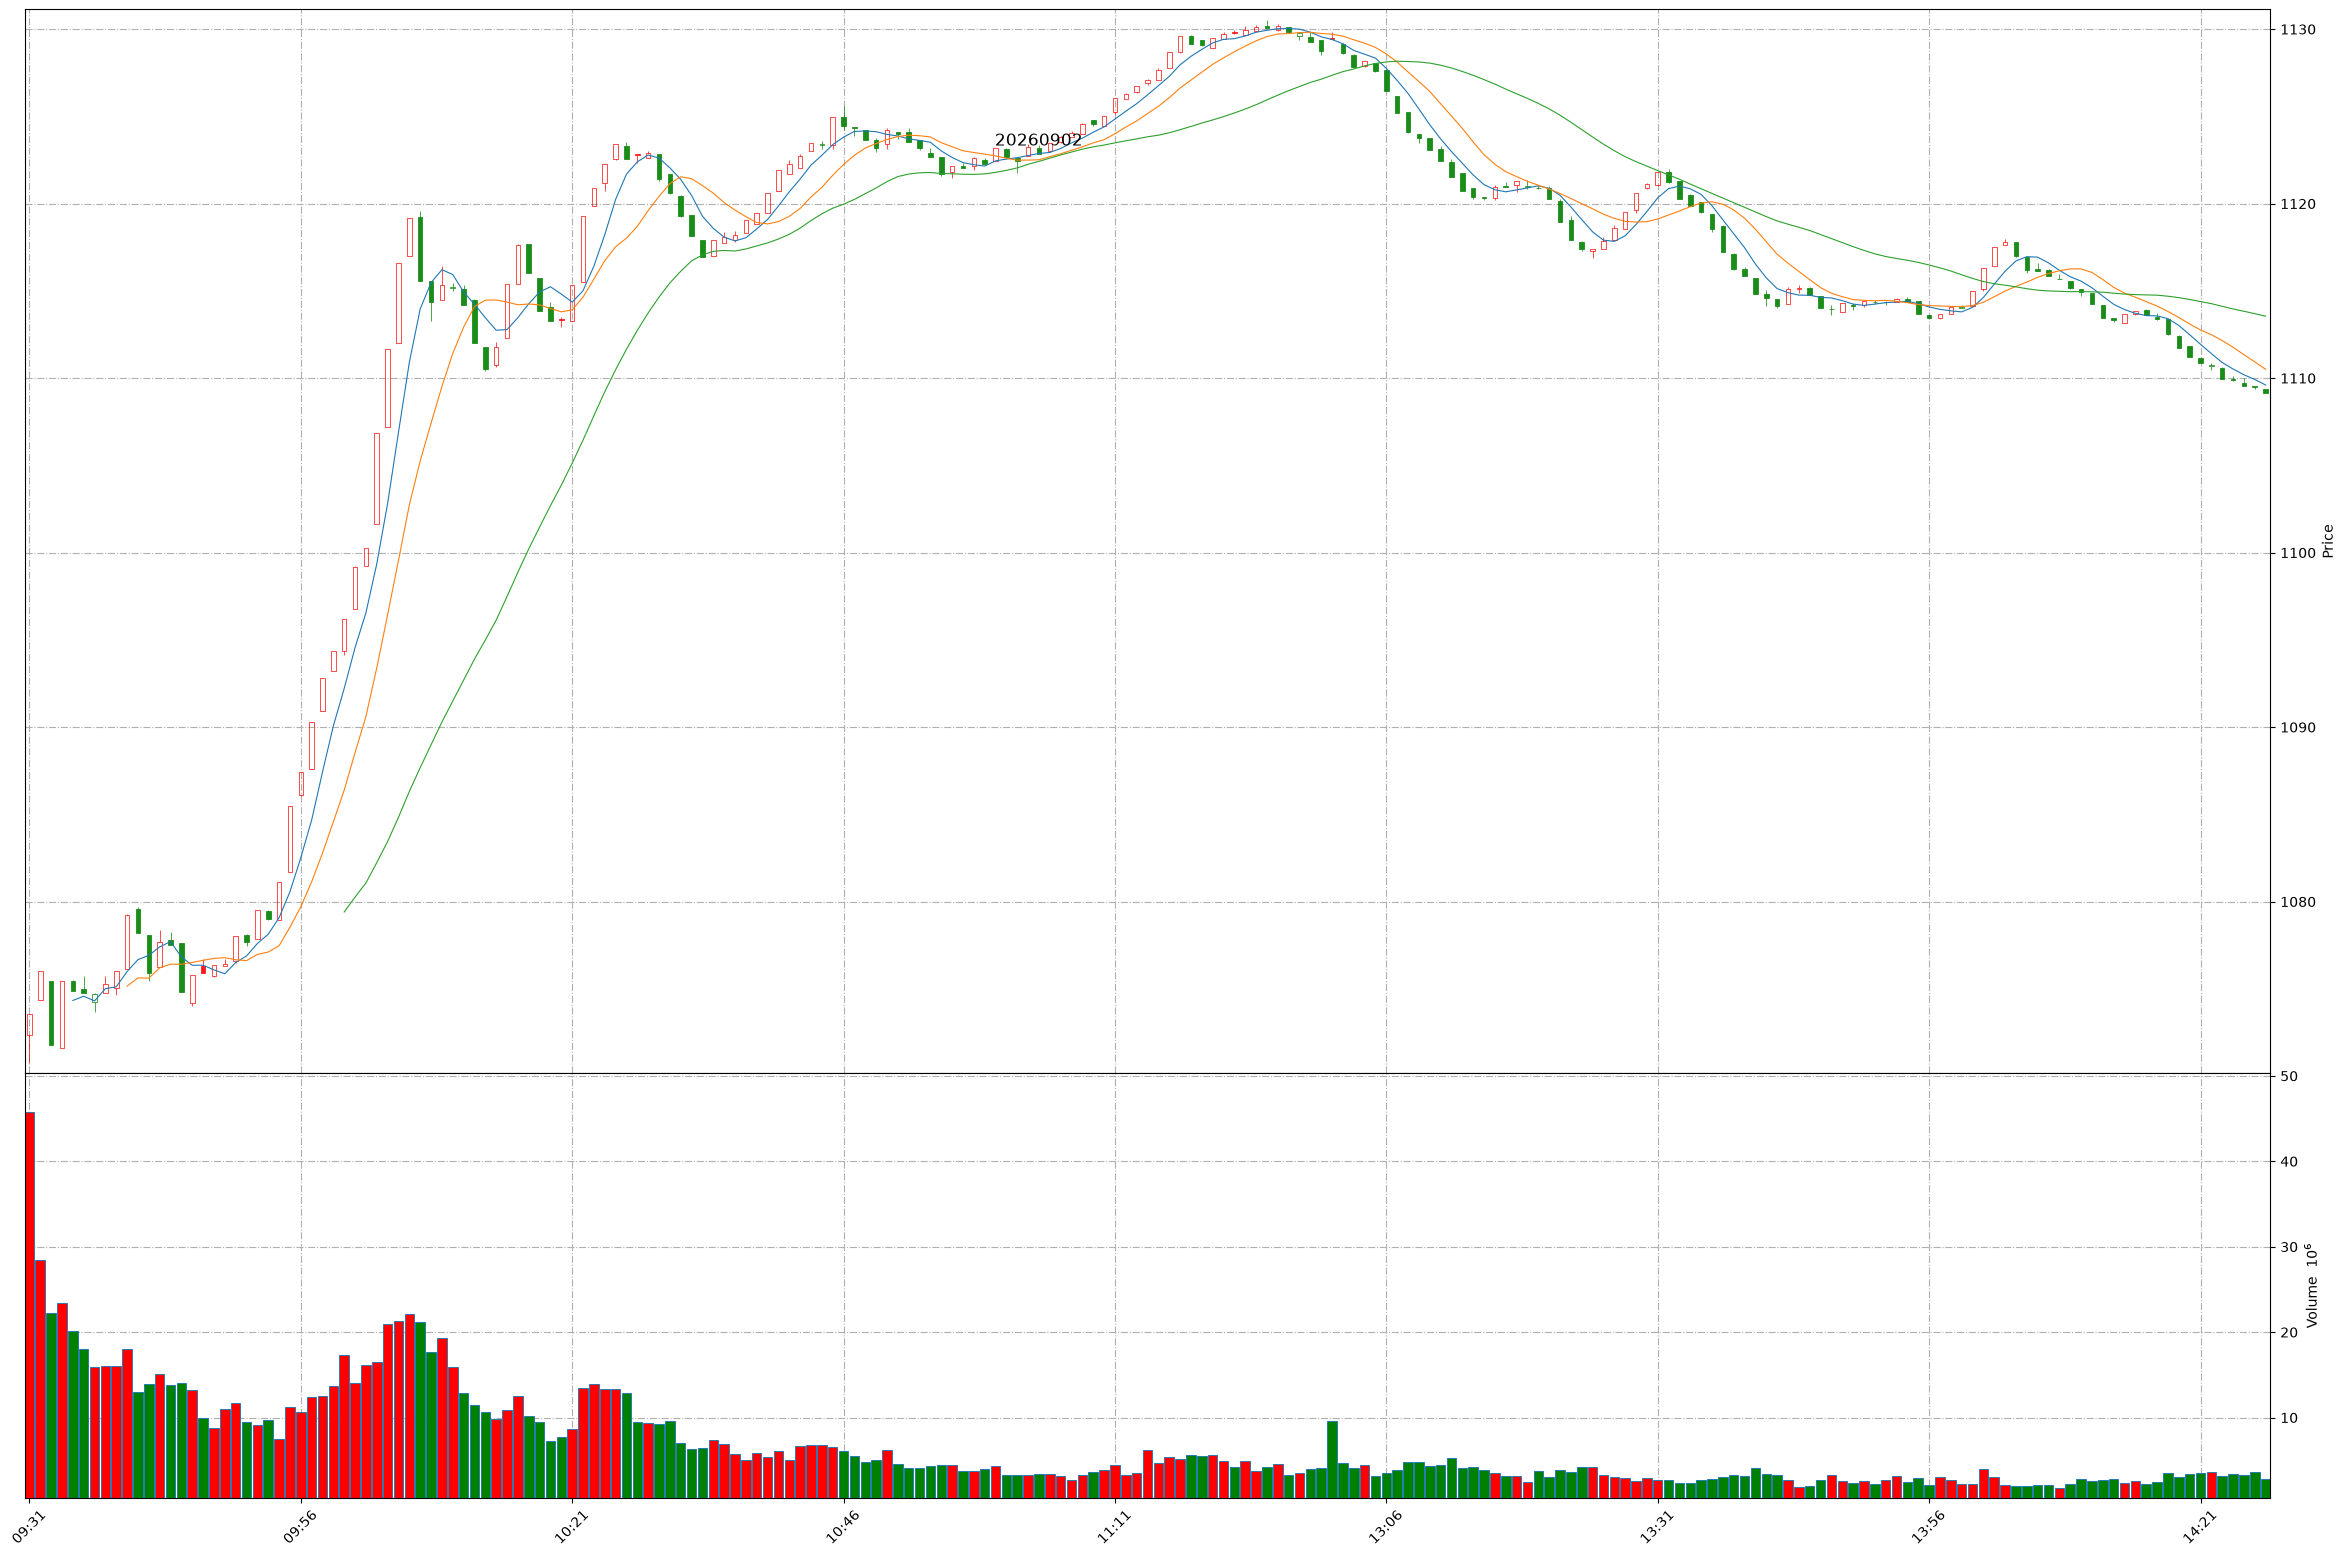
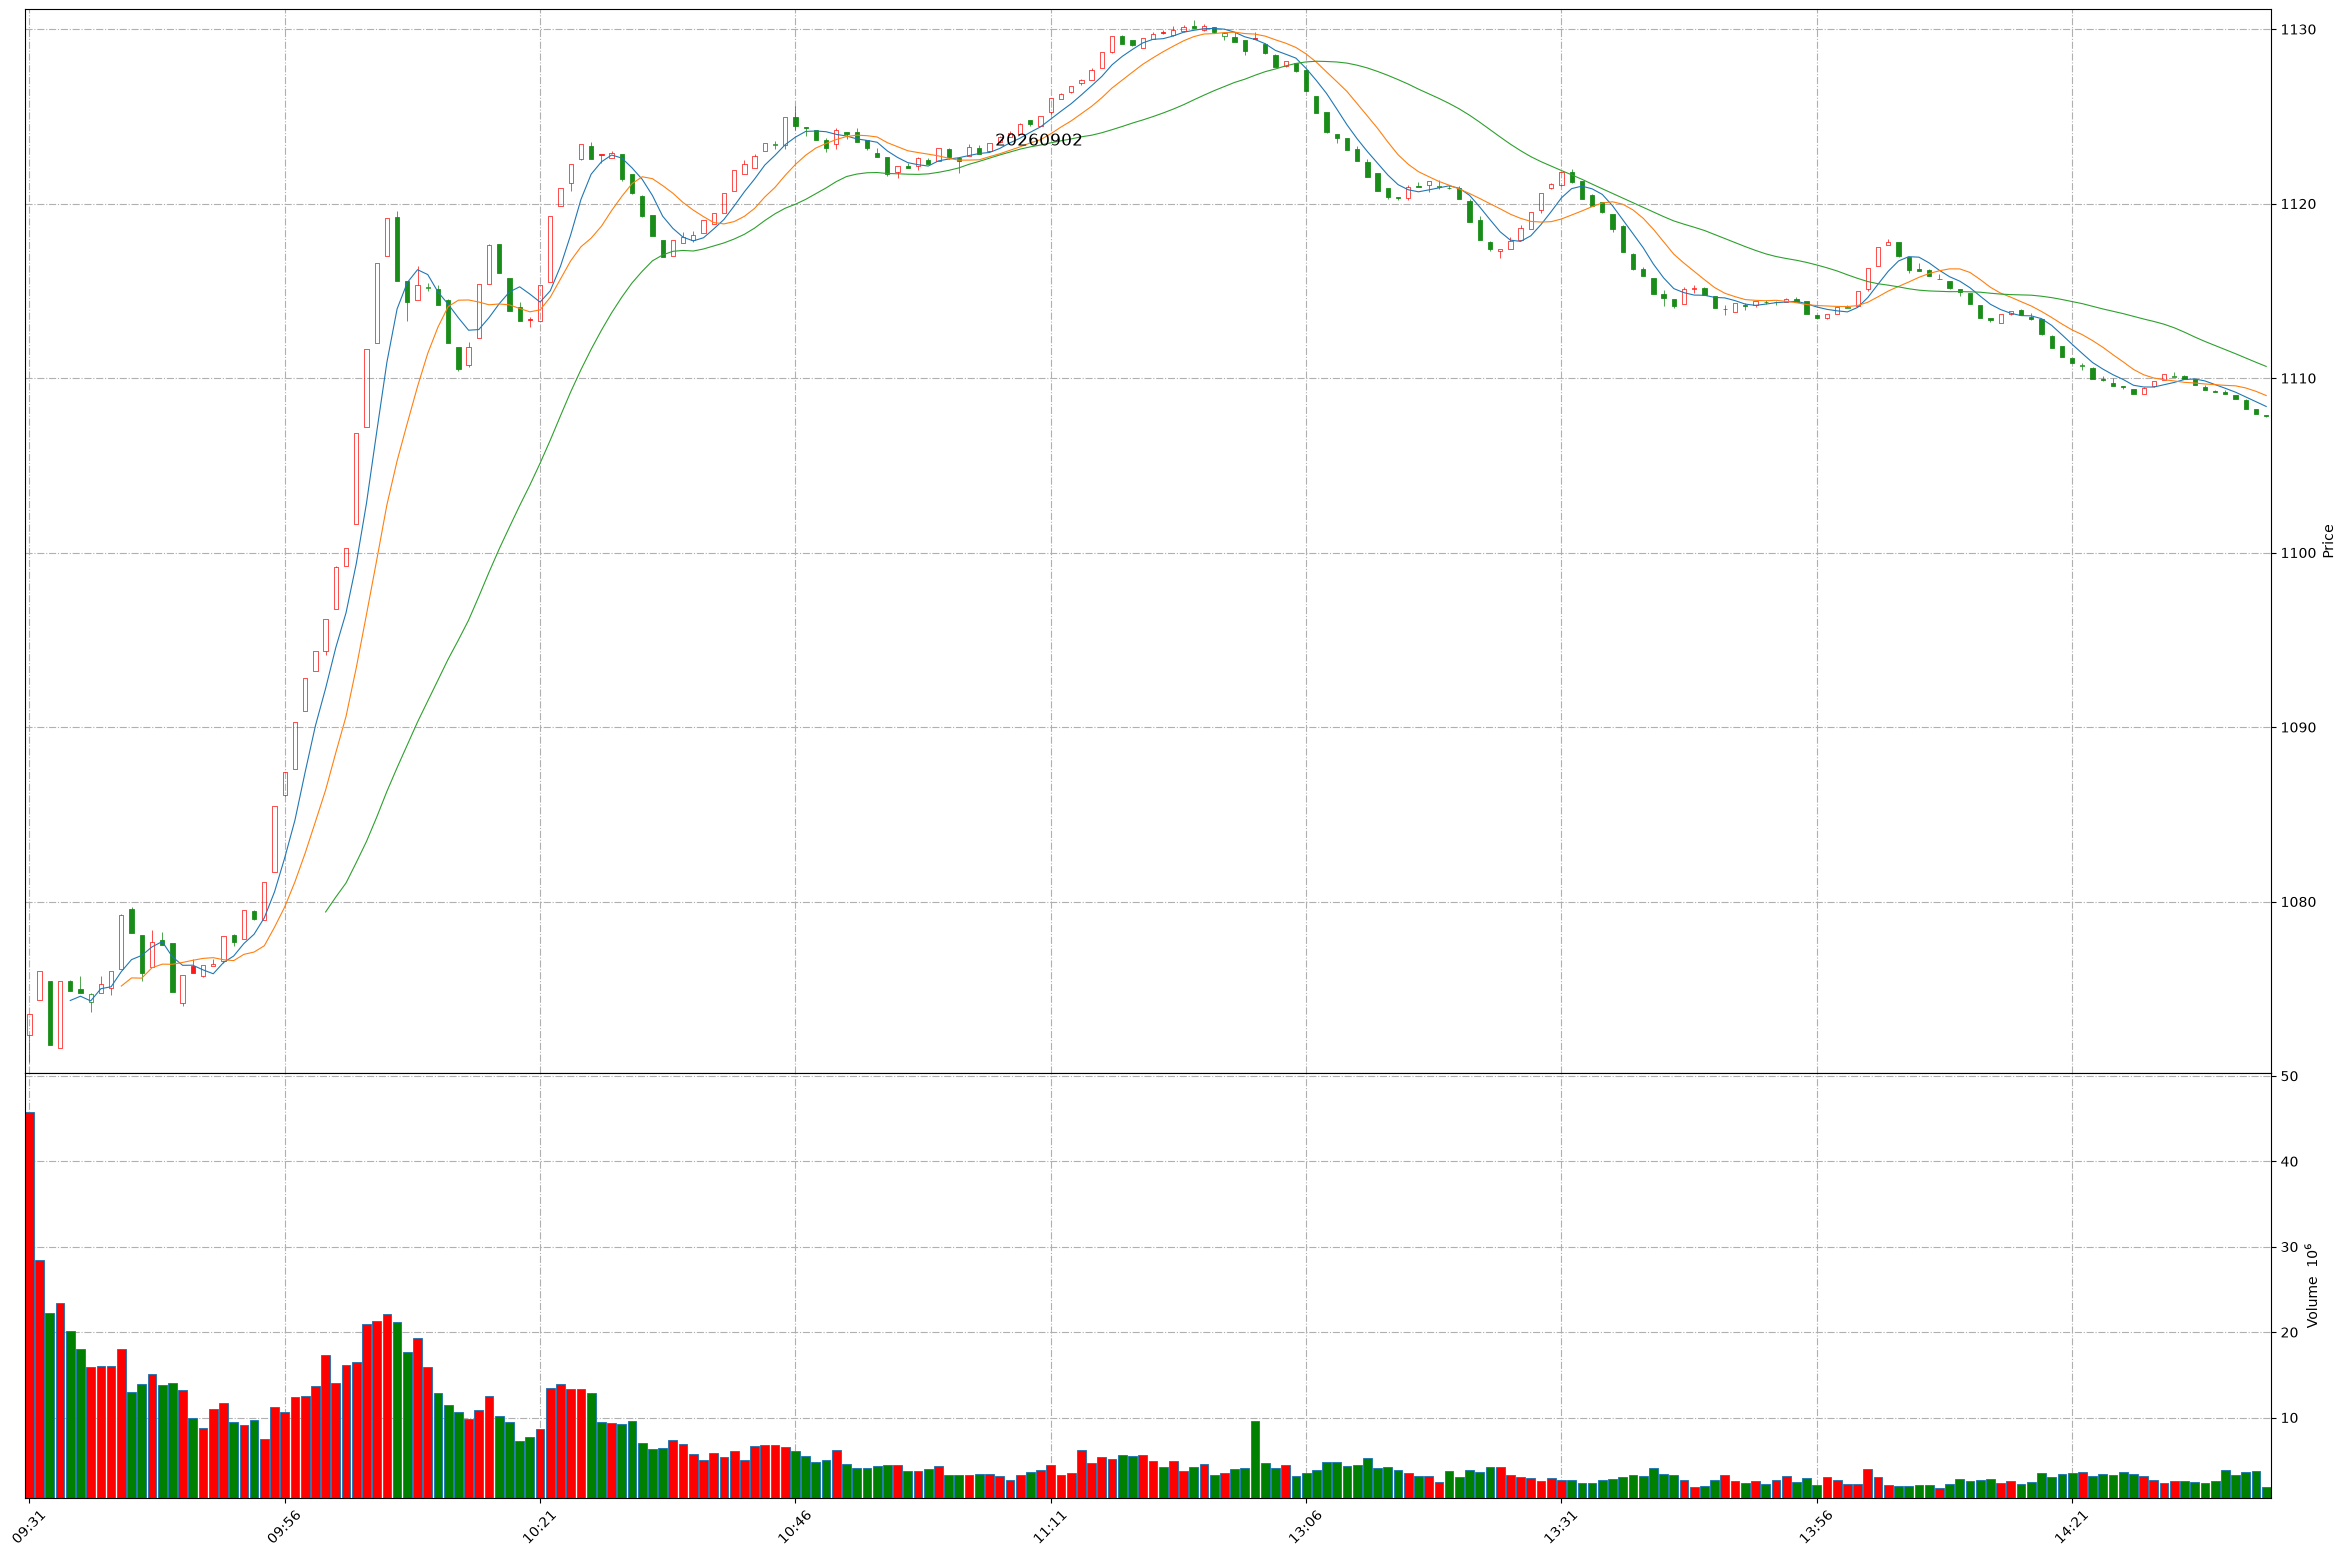
Github action update at 2026-09-02 14:39:54.

diff --git a/README.md b/README.md
@@ -1,11 +1,11 @@
 
 # Daily-A-share-market-quotes 每日 A 股指数（5min 更新）- 20260902
 
-### 上证指数 20260902 14:27
+### 上证指数 20260902 14:39
 ![](./fig/2026/9/20260902-sh000001.png)
 
-### 深证成指 20260902 14:27
+### 深证成指 20260902 14:39
 ![](./fig/2026/9/20260902-sz399001.png)
 
-### 北证50 20260902 14:27
+### 北证50 20260902 14:39
 ![](./fig/2026/9/20260902-bj899050.png)
